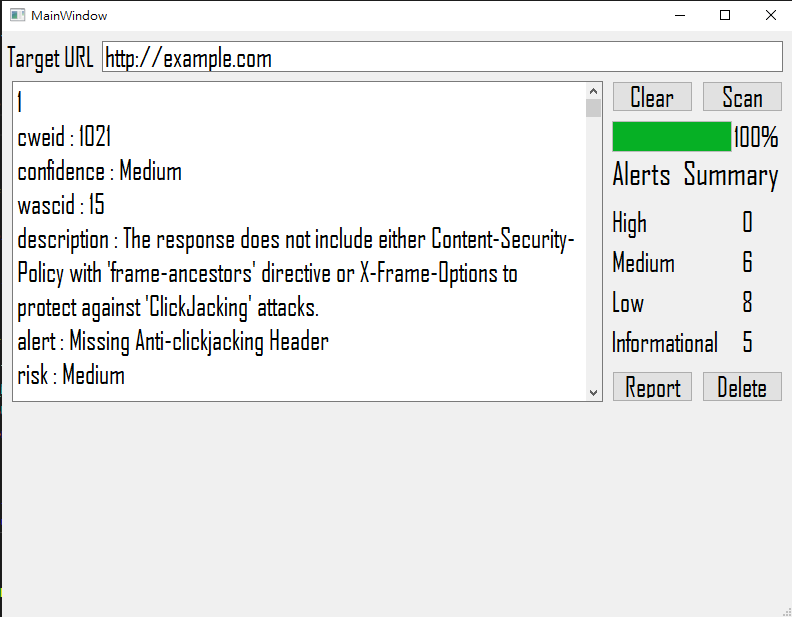
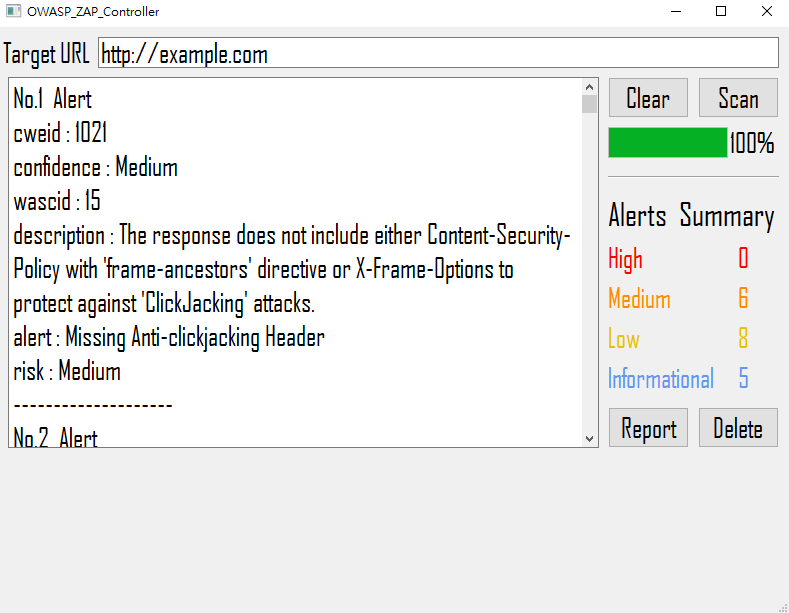
update UI

diff --git a/UI.py b/UI.py
@@ -31,28 +31,26 @@ class Ui_MainWindow(object):
         self.URL_Line_Edit.setFont(font)
         self.URL_Line_Edit.setObjectName("URL_Line_Edit")
         self.URL_Label = QtWidgets.QLabel(self.centralwidget)
-        self.URL_Label.setGeometry(QtCore.QRect(5, 10, 87, 32))
+        self.URL_Label.setGeometry(QtCore.QRect(5, 10, 91, 32))
         font = QtGui.QFont()
         font.setFamily("Agency FB")
         font.setPointSize(20)
         self.URL_Label.setFont(font)
         self.URL_Label.setObjectName("URL_Label")
         self.URL_Submit_Button = QtWidgets.QPushButton(self.centralwidget)
-        self.URL_Submit_Button.setGeometry(QtCore.QRect(700, 50, 81, 31))
+        self.URL_Submit_Button.setGeometry(QtCore.QRect(700, 50, 81, 41))
         font = QtGui.QFont()
-        font.setFamily("Agency FB")
         font.setPointSize(20)
         self.URL_Submit_Button.setFont(font)
         self.URL_Submit_Button.setObjectName("URL_Submit_Button")
         self.URL_Clear_Button = QtWidgets.QPushButton(self.centralwidget)
-        self.URL_Clear_Button.setGeometry(QtCore.QRect(610, 50, 81, 31))
+        self.URL_Clear_Button.setGeometry(QtCore.QRect(610, 50, 81, 41))
         font = QtGui.QFont()
-        font.setFamily("Agency FB")
         font.setPointSize(20)
         self.URL_Clear_Button.setFont(font)
         self.URL_Clear_Button.setObjectName("URL_Clear_Button")
         self.Search_Progress_Bar = QtWidgets.QProgressBar(self.centralwidget)
-        self.Search_Progress_Bar.setGeometry(QtCore.QRect(610, 90, 171, 31))
+        self.Search_Progress_Bar.setGeometry(QtCore.QRect(610, 100, 171, 31))
         font = QtGui.QFont()
         font.setPointSize(20)
         self.Search_Progress_Bar.setFont(font)
@@ -61,93 +59,86 @@ class Ui_MainWindow(object):
         self.Search_Progress_Bar.setObjectName("Search_Progress_Bar")
         self.Alert_Summary_Label = QtWidgets.QLabel(self.centralwidget)
         self.Alert_Summary_Label.setEnabled(True)
-        self.Alert_Summary_Label.setGeometry(QtCore.QRect(610, 150, 171, 41))
+        self.Alert_Summary_Label.setGeometry(QtCore.QRect(610, 160, 171, 51))
         font = QtGui.QFont()
         font.setPointSize(24)
         self.Alert_Summary_Label.setFont(font)
         self.Alert_Summary_Label.setObjectName("Alert_Summary_Label")
         self.High_Alert_Label = QtWidgets.QLabel(self.centralwidget)
-        self.High_Alert_Label.setGeometry(QtCore.QRect(610, 200, 41, 41))
+        self.High_Alert_Label.setGeometry(QtCore.QRect(610, 210, 41, 41))
         font = QtGui.QFont()
-        font.setFamily("Agency FB")
         font.setPointSize(20)
-        font.setBold(False)
-        font.setItalic(False)
-        font.setUnderline(False)
-        font.setWeight(50)
-        font.setStrikeOut(False)
-        font.setKerning(True)
         self.High_Alert_Label.setFont(font)
         self.High_Alert_Label.setObjectName("High_Alert_Label")
-        self.Medium_Alert_label = QtWidgets.QLabel(self.centralwidget)
-        self.Medium_Alert_label.setGeometry(QtCore.QRect(610, 240, 71, 41))
+        self.Medium_Alert_Label = QtWidgets.QLabel(self.centralwidget)
+        self.Medium_Alert_Label.setGeometry(QtCore.QRect(610, 250, 71, 41))
         font = QtGui.QFont()
-        font.setFamily("Agency FB")
         font.setPointSize(20)
-        self.Medium_Alert_label.setFont(font)
-        self.Medium_Alert_label.setObjectName("Medium_Alert_label")
+        self.Medium_Alert_Label.setFont(font)
+        self.Medium_Alert_Label.setObjectName("Medium_Alert_Label")
         self.Low_Alert_Label = QtWidgets.QLabel(self.centralwidget)
-        self.Low_Alert_Label.setGeometry(QtCore.QRect(610, 280, 41, 41))
+        self.Low_Alert_Label.setGeometry(QtCore.QRect(610, 290, 41, 41))
         font = QtGui.QFont()
-        font.setFamily("Agency FB")
         font.setPointSize(20)
         self.Low_Alert_Label.setFont(font)
         self.Low_Alert_Label.setObjectName("Low_Alert_Label")
         self.Info_Alert_Label = QtWidgets.QLabel(self.centralwidget)
-        self.Info_Alert_Label.setGeometry(QtCore.QRect(610, 320, 111, 41))
+        self.Info_Alert_Label.setGeometry(QtCore.QRect(610, 330, 111, 41))
         font = QtGui.QFont()
         font.setFamily("Agency FB")
         font.setPointSize(20)
         self.Info_Alert_Label.setFont(font)
         self.Info_Alert_Label.setObjectName("Info_Alert_Label")
         self.High_Alert_Number = QtWidgets.QLabel(self.centralwidget)
-        self.High_Alert_Number.setGeometry(QtCore.QRect(740, 200, 51, 41))
+        self.High_Alert_Number.setGeometry(QtCore.QRect(740, 210, 51, 41))
         font = QtGui.QFont()
         font.setPointSize(20)
         self.High_Alert_Number.setFont(font)
         self.High_Alert_Number.setLayoutDirection(QtCore.Qt.RightToLeft)
         self.High_Alert_Number.setObjectName("High_Alert_Number")
         self.Medium_Alert_Number = QtWidgets.QLabel(self.centralwidget)
-        self.Medium_Alert_Number.setGeometry(QtCore.QRect(740, 240, 51, 41))
+        self.Medium_Alert_Number.setGeometry(QtCore.QRect(740, 250, 51, 41))
         font = QtGui.QFont()
         font.setPointSize(20)
         self.Medium_Alert_Number.setFont(font)
         self.Medium_Alert_Number.setLayoutDirection(QtCore.Qt.RightToLeft)
         self.Medium_Alert_Number.setObjectName("Medium_Alert_Number")
         self.Info_Alert_Number = QtWidgets.QLabel(self.centralwidget)
-        self.Info_Alert_Number.setGeometry(QtCore.QRect(740, 320, 51, 41))
+        self.Info_Alert_Number.setGeometry(QtCore.QRect(740, 330, 51, 41))
         font = QtGui.QFont()
         font.setPointSize(20)
         self.Info_Alert_Number.setFont(font)
         self.Info_Alert_Number.setLayoutDirection(QtCore.Qt.RightToLeft)
         self.Info_Alert_Number.setObjectName("Info_Alert_Number")
         self.Low_Alert_Number = QtWidgets.QLabel(self.centralwidget)
-        self.Low_Alert_Number.setGeometry(QtCore.QRect(740, 280, 51, 41))
+        self.Low_Alert_Number.setGeometry(QtCore.QRect(740, 290, 51, 41))
         font = QtGui.QFont()
         font.setPointSize(20)
         self.Low_Alert_Number.setFont(font)
         self.Low_Alert_Number.setLayoutDirection(QtCore.Qt.RightToLeft)
         self.Low_Alert_Number.setObjectName("Low_Alert_Number")
         self.Delete_All_Alert_Button = QtWidgets.QPushButton(self.centralwidget)
-        self.Delete_All_Alert_Button.setGeometry(QtCore.QRect(700, 370, 81, 31))
+        self.Delete_All_Alert_Button.setGeometry(QtCore.QRect(700, 380, 81, 41))
         font = QtGui.QFont()
         font.setPointSize(20)
         self.Delete_All_Alert_Button.setFont(font)
         self.Delete_All_Alert_Button.setObjectName("Delete_All_Alert_Button")
         self.Report_Alert_Button = QtWidgets.QPushButton(self.centralwidget)
-        self.Report_Alert_Button.setGeometry(QtCore.QRect(610, 370, 81, 31))
+        self.Report_Alert_Button.setGeometry(QtCore.QRect(610, 380, 81, 41))
         font = QtGui.QFont()
+        font.setFamily("Agency FB")
         font.setPointSize(20)
         self.Report_Alert_Button.setFont(font)
+        self.Report_Alert_Button.setAutoFillBackground(False)
         self.Report_Alert_Button.setObjectName("Report_Alert_Button")
-        self.show = QtWidgets.QTextEdit(self.centralwidget)
-        self.show.setGeometry(QtCore.QRect(10, 50, 591, 351))
+        self.Report_Text = QtWidgets.QTextEdit(self.centralwidget)
+        self.Report_Text.setGeometry(QtCore.QRect(10, 50, 591, 371))
         font = QtGui.QFont()
         font.setPointSize(20)
-        self.show.setFont(font)
-        self.show.setObjectName("show")
+        self.Report_Text.setFont(font)
+        self.Report_Text.setObjectName("Report_Text")
         self.line = QtWidgets.QFrame(self.centralwidget)
-        self.line.setGeometry(QtCore.QRect(610, 110, 171, 61))
+        self.line.setGeometry(QtCore.QRect(610, 140, 171, 21))
         self.line.setFrameShape(QtWidgets.QFrame.HLine)
         self.line.setFrameShadow(QtWidgets.QFrame.Sunken)
         self.line.setObjectName("line")
@@ -165,13 +156,13 @@ class Ui_MainWindow(object):
 
     def retranslateUi(self, MainWindow):
         _translate = QtCore.QCoreApplication.translate
-        MainWindow.setWindowTitle(_translate("MainWindow", "MainWindow"))
+        MainWindow.setWindowTitle(_translate("MainWindow", "OWASP_ZAP_Controller"))
         self.URL_Label.setText(_translate("MainWindow", "Target URL"))
         self.URL_Submit_Button.setText(_translate("MainWindow", "Scan"))
         self.URL_Clear_Button.setText(_translate("MainWindow", "Clear"))
         self.Alert_Summary_Label.setText(_translate("MainWindow", "Alerts  Summary"))
         self.High_Alert_Label.setText(_translate("MainWindow", "High"))
-        self.Medium_Alert_label.setText(_translate("MainWindow", "Medium"))
+        self.Medium_Alert_Label.setText(_translate("MainWindow", "Medium"))
         self.Low_Alert_Label.setText(_translate("MainWindow", "Low"))
         self.Info_Alert_Label.setText(_translate("MainWindow", "Informational"))
         self.High_Alert_Number.setText(_translate("MainWindow", "0"))

diff --git a/controller.py b/controller.py
@@ -1,6 +1,6 @@
-from PyQt5 import QtCore, QtWidgets
-from PyQt5.QtGui import QImage, QPixmap
-from PyQt5.QtWidgets import QFileDialog, QApplication, QMainWindow, QPushButton
+from PyQt5 import QtCore, QtWidgets, Qt, QtGui
+from PyQt5.QtWidgets import * 
+from PyQt5.QtGui import * 
 from PyQt5.QtCore import QThread, pyqtSignal
 
 from UI import Ui_MainWindow
@@ -33,12 +33,18 @@ class MainWindow_controller(QtWidgets.QMainWindow):
 
         self.ui.High_Alert_Label.setStyleSheet('color:#f00;')
         self.ui.High_Alert_Number.setStyleSheet('color:#f00;')
-        self.ui.Medium_Alert_label.setStyleSheet('color:#FF8C00')
+        self.ui.Medium_Alert_Label.setStyleSheet('color:#FF8C00')
         self.ui.Medium_Alert_Number.setStyleSheet('color:#FF8C00')
         self.ui.Low_Alert_Label.setStyleSheet('color:#e6c300')
         self.ui.Low_Alert_Number.setStyleSheet('color:#e6c300')
-        self.ui.Info_Alert_Label.setStyleSheet("color:#6495ED")
-        self.ui.Info_Alert_Number.setStyleSheet("color:#6495ED")
+        self.ui.Info_Alert_Label.setStyleSheet('color:#6495ED')
+        self.ui.Info_Alert_Number.setStyleSheet('color:#6495ED')
+
+        font = QFont('Agency FB', 20)
+        self.ui.High_Alert_Label.setFont(font)
+        self.ui.Medium_Alert_Label.setFont(font)
+        self.ui.Low_Alert_Label.setFont(font)
+        self.ui.Info_Alert_Label.setFont(font)
 
     def URL_Submit(self):
         global URL
@@ -58,7 +64,7 @@ class MainWindow_controller(QtWidgets.QMainWindow):
         self.ui.Medium_Alert_Number.setText("0")
         self.ui.Low_Alert_Number.setText("0")
         self.ui.Info_Alert_Number.setText("0")
-        self.ui.show.clear()
+        self.ui.Report_Text.clear()
 
     def Alter_Report(self):
         reportPath = QFileDialog.getSaveFileName(self, "選擇保存路徑", "./Alert_Report.txt", "Text Files (*.txt)")
@@ -79,7 +85,7 @@ class MainWindow_controller(QtWidgets.QMainWindow):
         reportFile.close()
 
         reportText = open(reportPath[0]).read()
-        self.ui.show.setText(reportText) 
+        self.ui.Report_Text.setText(reportText) 
 
 class WorkerThread(QThread):
     progressChanged = QtCore.pyqtSignal(int)
